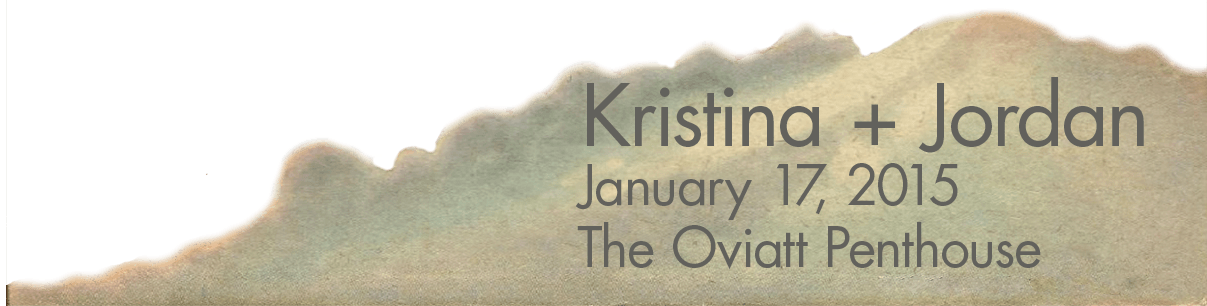
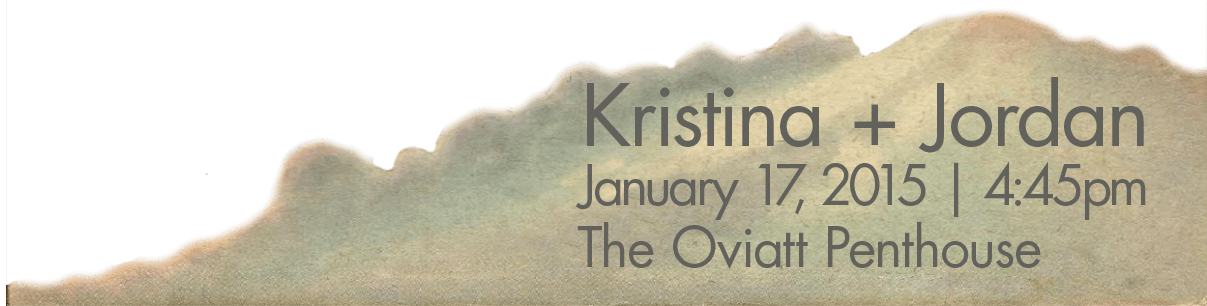
added intinerary

Changed region(s): [[0.4905, 0.5294, 0.9503, 0.7353]]

diff --git a/kjacinth-jmirrer/com/index.html b/kjacinth-jmirrer/com/index.html
@@ -17,7 +17,7 @@
 						<a class="ask-us-stamp" data-reveal-id="ask-us" href="#ask-us"><img src="images/ask-us_stamp.png"></a>
 						<a class="rsvp-stamp" data-reveal-id="rsvp" href="#rsvp"><img src="images/RSVP-stamp.png"></a>
 						<a class="to-do-stamp" data-reveal-id="to-do" href="#to-do-in-LA"><img src="images/things-to-do-stamp.png"></a>
-						<!--<a class="itinerary-stamp" data-reveal-id="itinerary" href="#itenerary"><img src="images/itinerary-stamp.png"></a>-->
+						<a class="itinerary-stamp" data-reveal-id="itinerary" href="#itenerary"><img src="images/itinerary-stamp.png"></a>
 					</div>
 					<div class="row">
 					</div>
@@ -94,9 +94,25 @@
 	
 	<!-- ITINERARY -->
 	<div id="itinerary" class="reveal-modal" data-reveal>
-	  <h2>Awesome. I have it.</h2>
-	  <p class="lead">Your couch.  It is mine.</p>
-	  <p>Im a cool paragraph that lives inside of an even cooler modal. Wins</p>
+	  <h2>Itinerary & Accommodations</h2>
+	  	<p>Where: Oviatt Penthouse, <a href="https://www.google.com/maps/place/Oviatt+Penthouse/@34.047643,-118.254566,17z/data=!4m2!3m1!1s0x80c2c7b4e52952d5:0x3dec56def9013083" target="_blank">617 S Olive St. Los Angeles, CA</a> <br/>
+			When: January 17, 2015 | 4:45pm</p>
+		  <p>The ceremony begins on the Oviatt Penthouse rooftop at <strong>4:45pm</strong> sharp.  <br/>
+			  Cocktails, dinner, and dancing to follow until midnight.<br/>
+		  <strong>Black tie optional.</strong></p>
+		  <p>Sunday brunch, hosted by Ginger, will be at a yet-to-be-determined location on Sunday morning.</p>
+		  <h3>Hotels</h3>
+		  <p>We have reserved a room block at the very cool and classy <a href="http://www.laac.com/" target="_blank">Los Angeles Athletic Club</a>.  Established in 1880, the hotel and sports club is located across the street from the Oviatt Penthouse and features access to their extensive athletic facilities, complimentary breakfast, and free WiFi.  <br/>
+		  If booking your stay, please ask for the Jacinth-Mirrer rate (about $160/night + taxes & fees).<br/>
+	  <p>This is a work in progress so stay tuned for more offerings.  We are also working on reserving additional rooms at the <a href="http://www3.hilton.com/en/hotels/california/hilton-checkers-los-angeles-LAXCHHF/index.html" target="_blank">Hilton Checkers</a> and <a href="http://www.millenniumhotels.com/usa/millenniumbiltmorelosangeles/" target="_blank">Millenium Biltmore</a>.</p>  
+	  <p>If you're looking for some alternative accommodations, we recommend looking at <a href="https://www.airbnb.com/s/Downtown--Los-Angeles--CA--United-States" target="_blank">airbnb</a>.  Try staying close to Downtown, though, so you don't need to worry about driving or renting a car.</p>
+	     
+		 <h3>Flights</h3>
+		 <p>Coordinate your flights to try to get a discount from the airlines.  Virgin America generally offers 5% off if you book for 10 or more, but you'll need to select your flights first.  Email <a href="mailto:Groups@virginamerica.com">Groups@virginamerica.com</a> for more information.  Other airlines offer similar programs.</p>
+		 <p>The best way to get to and from the airport is on a private shuttle service.  It's an even better deal if you travel as a group.  Book in advance with <a href="http://www.supershuttle.com/" target="_blank">Super Shuttle</a> or <a href="http://www.primetimeshuttle.com/" target="_blank">Prime Time Shuttle</a>.</p>
+		 
+		 <h3>Parking</h3>
+		 <p>All hotels offer overnight parking for guests ($20 at the Athletic Club).  There are several other lots in the area that usually cost anywhere from $5 to $10 for the evening, depending on how far you're willing to walk.</p> 
 	  <a class="close-reveal-modal">&#215;</a>
 	</div>
 	
